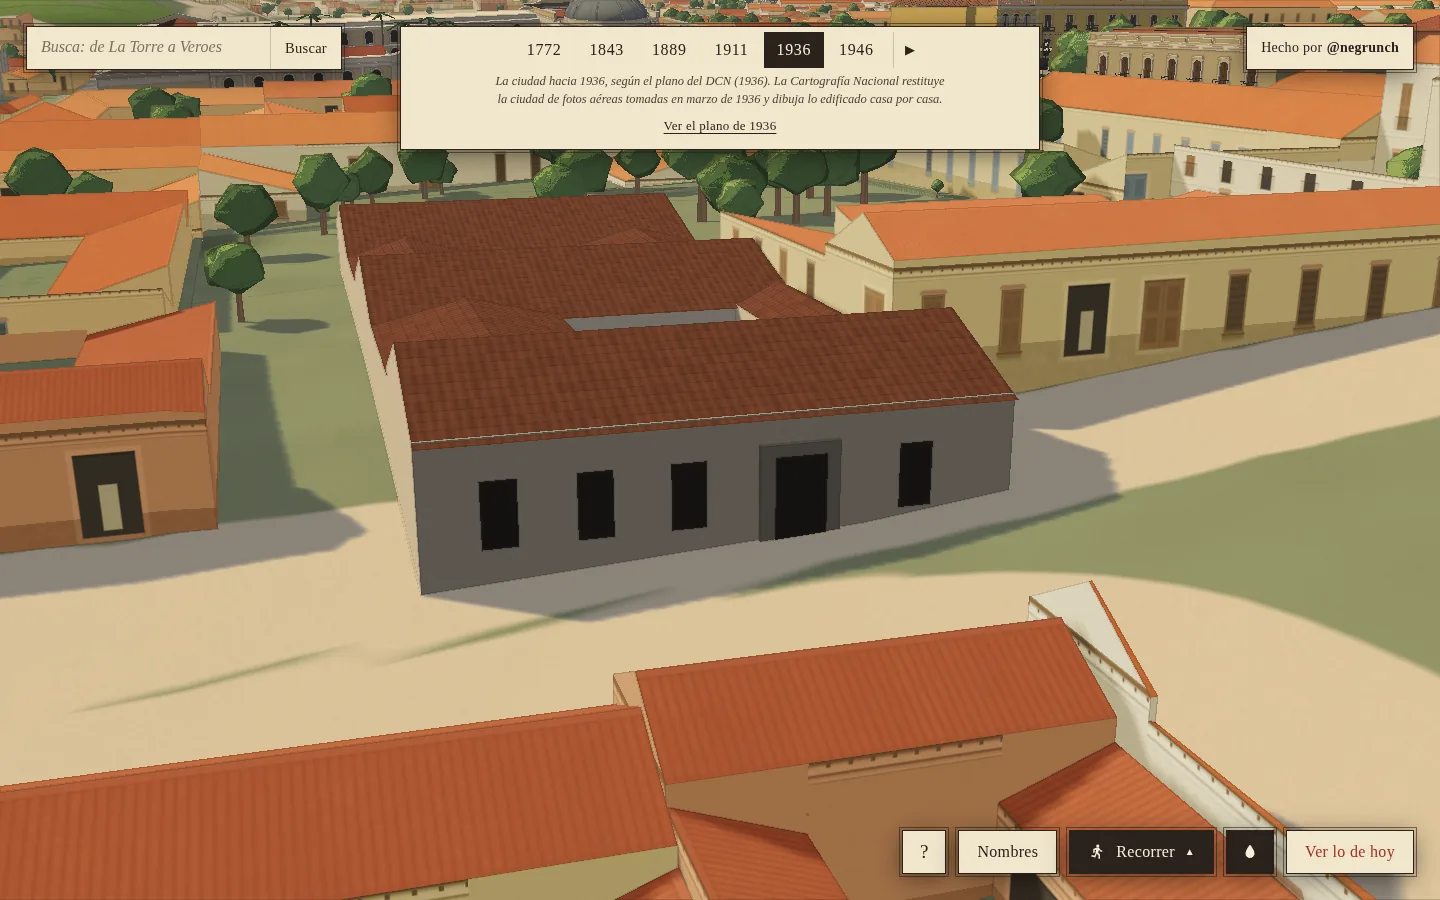
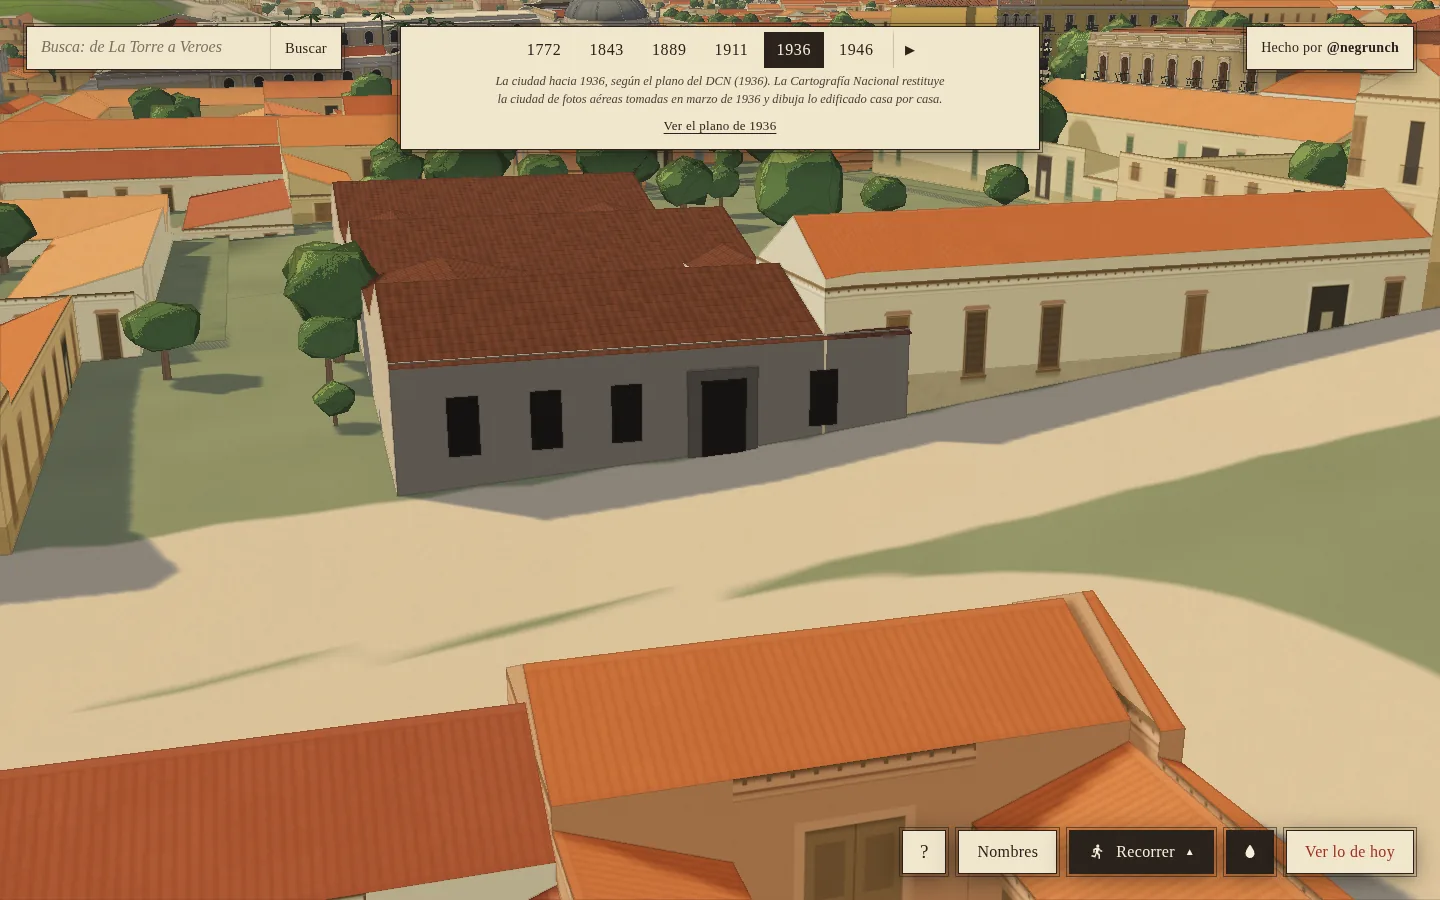
fix: la Casa Natal se alinea con la fachada de su manzana en vez de quedar metida en la calle (#247)
El tejido del sitio sale del mosaico de 1936, donde la costura de las hojas tapa el frente
de la cuadra: el solar entero se corre 9,7 m al oeste, declarado en verificar, en la ficha y
en el documento. Un test unitario y un E2E miden que el frente no sale de la manzana.

Claude-Session: https://claude.ai/code/session_016wLvLzPGE3irYQgPfs9SqY

diff --git a/src/hitos/datos/casa-natal.js b/src/hitos/datos/casa-natal.js
@@ -1,7 +1,8 @@
 /**
  * La Casa Natal del Libertador (issue #247), entre las esquinas de San Jacinto y Traposos. El solar mide lo que
  * publica el Diccionario de Historia de Venezuela (22,40 × 60,50 m) y está puesto donde el plano de 1936 raya
- * la «Casa Natal» (docs/casa-natal-georreferencia.json). La fachada cambia con las épocas según Landaeta
+ * la «Casa Natal» (docs/casa-natal-georreferencia.json), corrido 9,7 m hacia el fondo para alinear la fachada con
+ * la manzana del modelo (CORRIMIENTO_M). La fachada cambia con las épocas según Landaeta
  * Rosales (1912); el volumen, no: es de un piso en todas. Lo que no tiene fuente queda en `verificar`
  * (docs/casa-natal-integracion.md). El origen es el medio de la fachada y el eje entra al solar, hacia el oeste;
  * b > 0 es el norte. No tiene constructor propio: se arma con las partes `cuerpo` y `ventanas` de src/hitos/partes.js.
@@ -11,12 +12,30 @@ import { rectanguloPx } from './marco.js'
 // los tonos de src/hitos/piezas.js que usa (este módulo lo carga también el hilo principal, sin three.js)
 const TONO = Object.freeze({ TEJA_VIEJA: 0x7d4a36, PIEDRA: 0x8a8378, PIEDRA_CLARA: 0xbdb6a6 })
 
-const marco = { x: 9262.6, y: 7168.2, eje: [-0.9786, -0.2055] }
+const EJE = Object.freeze([-0.9786, -0.2055])
+/** El medio de la fachada donde la ponen los planos de 1889, 1911 y 1946 (en el de 1936 la tapa la costura de las hojas). */
+export const FACHADA_LEIDA_PX = Object.freeze([9262.6, 7168.2])
+/**
+ * Lo que la casa se corre hacia el fondo para quedar en la línea de fachada de su manzana del modelo. El tejido del
+ * sitio sale del mosaico de 1936, y ahí la costura de las hojas se come el frente de esta cuadra: el borde de la
+ * manzana (con su retiro de 1 m) queda de 9,0 a 9,7 m al oeste de la fachada de los planos. Se corre el solar entero (conserva sus
+ * 22,40 × 60,50 m) lo que hace falta para que ningún punto del frente pise la calle del modelo.
+ */
+export const CORRIMIENTO_M = 9.7
+const METRO_POR_PX = 0.5
+const marco = {
+  x: FACHADA_LEIDA_PX[0] + (CORRIMIENTO_M * EJE[0]) / METRO_POR_PX,
+  y: FACHADA_LEIDA_PX[1] + (CORRIMIENTO_M * EJE[1]) / METRO_POR_PX,
+  eje: [...EJE],
+}
 
 /** El solar, en metros (Fuentes Carvallo, DHV). */
 export const SOLAR = Object.freeze({ frente: 22.4, fondo: 60.5 })
 
-/** Los dos patios que nombra el IPC, centrados en los blancos que el plano de 1936 deja dentro del rayado. */
+/**
+ * Los dos patios que nombra el IPC. Su lugar dentro del solar sale de los blancos que el plano de 1936 deja en el
+ * rayado; con el solar corrido, quedan 9,7 m al oeste de esos blancos.
+ */
 export const PATIOS = Object.freeze([
   Object.freeze({ a: 16.1, b: 2.3, largo: 10, ancho: 9 }), // el principal, detrás del zaguán
   Object.freeze({ a: 39.5, b: -0.5, largo: 9, ancho: 7 }), // el de servicio
@@ -117,8 +136,9 @@ export const casaNatal = Object.freeze({
   verificar: [
     'Alturas sin fuente: ninguna está medida ni publicada. Va un piso de 5 m a la calle y 4,2 a 4,6 m adentro, con tejado bajo.',
     'El piso alto anterior a 1812 no se dibuja: Landaeta dice que la casa «era de alto interiormente» y el DHV, que Juan Vicente Bolívar y Ponte le hizo un piso alto, pero ninguno dice dónde estaba ni desde cuándo. En 1772 va de un piso, como en la lámina de 1912.',
-    'Solar de 22,40 × 60,50 m (DHV), ubicado sobre el rayado del plano de 1936: allí el ancho leído da 21,9 m y el fondo unos 60 m. El plano de 1946 dibuja un contorno 3 m más ancho. La línea de fachada sale del plano de 1946, porque en el mosaico de 1936 la costura de las hojas tapa la calle.',
-    'Zaguán y dos patios según el IPC, que describe la casa restaurada. Los patios van donde el plano de 1936 deja blancos; su tamaño es interpretativo y no se sabe cómo eran antes de 1916. Los corredores no se dibujan: quedan dentro de las crujías.',
+    'Solar de 22,40 × 60,50 m (DHV), ubicado sobre el rayado del plano de 1936: allí el ancho leído da 21,9 m y el fondo unos 60 m. El plano de 1946 dibuja un contorno 3 m más ancho.',
+    'La casa está corrida 9,7 m al oeste de donde la ponen los planos. Los de 1889, 1911 y 1946 dibujan la fachada en x ≈ 9263; en el mosaico de 1936, del que sale el tejido del sitio, la costura de las dos hojas tapa una franja de unos 23 m con la calle y el frente de esta cuadra, y la manzana del modelo termina 9,0 a 9,7 m antes. Para no dejar la casa metida en la calle se corre el solar entero hasta la línea de fachada de sus vecinas; el fondo queda 9,7 m más adentro de la manzana que el rayado del plano. Se deshace cuando el generador de manzanas corrija ese borde.',
+    'Zaguán y dos patios según el IPC, que describe la casa restaurada. Los patios van donde el plano de 1936 deja blancos, corridos con el solar; su tamaño es interpretativo y no se sabe cómo eran antes de 1916. Los corredores no se dibujan: quedan dentro de las crujías.',
     'Fachada de 1772: la de la lámina de Landaeta (1912), que por su texto parece salir del cuadro que Néstor Hernández pintó en 1883 para mostrarla «con la forma que tenía entonces»: es una reconstrucción hecha cien años después.',
     'Fachada de 1843 y 1889: las mismas ventanas sin las rejas de madera. Las de hierro «que se le pusieron después del terremoto» (Landaeta) no se dibujan, y la lámina del Papel Periódico Ilustrado de 1883 que él cita no se consultó.',
     'Fachada de 1911: Landaeta no fecha el cambio de las tres ventanas del sur por puertas; ocurrió entre 1883 y 1912. En 1889 se dibuja todavía con ventanas, sin prueba.',

diff --git a/tests/unit/casa-natal.test.js b/tests/unit/casa-natal.test.js
@@ -4,7 +4,7 @@ import { TONO } from '../../src/hitos/piezas.js'
 import { HITOS, validarHitos, construirHitos } from '../../src/hitos.js'
 import { hitosConPlanta } from '../../src/hitos/plantas.js'
 import { zonasDeSupresion, puntoEnPoligono } from '../../src/hitos/suprimir.js'
-import { casaNatal as hito, SOLAR, PATIOS, FASES, vanosDeFachada } from '../../src/hitos/datos/casa-natal.js'
+import { casaNatal as hito, SOLAR, PATIOS, FASES, vanosDeFachada, CORRIMIENTO_M, FACHADA_LEIDA_PX } from '../../src/hitos/datos/casa-natal.js'
 import { parteDe } from '../../src/hitos/partes.js'
 import { MARCAS } from '../../src/marcas-datos.js'
 import { FICHAS } from '../../src/fichas-datos.js'
@@ -76,7 +76,7 @@ describe('Casa Natal del Libertador (#247): el solar y su vida', () => {
     ['la calle, al este', [9278, 7168]],
     ['el vecino del norte', [9220, 7124]],
     ['el vecino del sur', [9220, 7200]],
-    ['el fondo de la manzana, al oeste', [9125, 7140]],
+    ['el fondo de la manzana, al oeste', [9110, 7137]],
   ])('la reserva es el solar y deja afuera %s', (_, punto) => {
     const zonas = zonasDeSupresion([hito])
     expect(zonas.some((z) => puntoEnPoligono([9200, 7155], z.poligono))).toBe(true)
@@ -90,12 +90,50 @@ describe('Casa Natal del Libertador (#247): el solar y su vida', () => {
     const enPlanta = (p) => hito.planta.some((poligono) => puntoEnPoligono(p, poligono))
     const enSolar = (p) => puntoEnPoligono(p, hito.suprime[0])
     expect(PATIOS).toHaveLength(2)
-    for (const blanco of [[9232, 7157], [9185, 7153]]) {
+    // los blancos del plano de 1936, corridos con el solar (CORRIMIENTO_M hacia el fondo)
+    const corrido = ([x, y]) => [x + (CORRIMIENTO_M * hito.eje[0]) / PLANO.metro, y + (CORRIMIENTO_M * hito.eje[1]) / PLANO.metro]
+    for (const blanco of [[9232, 7157], [9185, 7153]].map(corrido)) {
       expect(enSolar(blanco)).toBe(true)
       expect(enPlanta(blanco)).toBe(false)
     }
     // la crujía de la calle, la que separa los patios y la del fondo sí son colisión
-    for (const techado of [[9257, 7166], [9208, 7155], [9155, 7146]]) expect(enPlanta(techado)).toBe(true)
+    for (const techado of [[9257, 7166], [9208, 7155], [9155, 7146]].map(corrido)) expect(enPlanta(techado)).toBe(true)
+  })
+
+  // El borde este de la manzana del modelo frente a la casa, ya con su retiro de 1 m (el `limite` de V1772-36902-0-0,
+  // igual en las seis épocas: donde termina el suelo de manzana y empiezan las fachadas vecinas), en píxeles:
+  // informes de retiro de los datos completos (fuentes/derivados/retiro<año>, generados con 27abd10).
+  const BORDE_MANZANA_PX = [[9240.4, 7186.4], [9248.3, 7142.3]]
+  /** Metros que un punto pasa del borde de la manzana hacia la calle (positivo: en la calle). */
+  const fueraDeLaManzana = ([x, y]) => {
+    const [[x0, y0], [x1, y1]] = BORDE_MANZANA_PX
+    const largo = Math.hypot(x1 - x0, y1 - y0)
+    // la calle queda al este: a la derecha de quien recorre el borde de sur a norte
+    return (((x - x0) * (y1 - y0) - (y - y0) * (x1 - x0)) / largo) * -PLANO.metro
+  }
+
+  test('el frente no sale de la manzana del modelo hacia la calle, y tampoco queda hundido', () => {
+    // Arrange: las dos esquinas del frente y su medio
+    const frente = [hito.suprime[0][0], hito.suprime[0][3], [hito.x, hito.y]]
+
+    // Act
+    const salidas = frente.map(fueraDeLaManzana)
+
+    // Assert: ninguna pisa la calle (tolerancia: 0,1 m de redondeo) ni se mete más de 1 m en la manzana
+    expect(fueraDeLaManzana([9278, 7168])).toBeGreaterThan(5) // control: la calle sí queda afuera
+    expect(fueraDeLaManzana(FACHADA_LEIDA_PX)).toBeGreaterThan(9) // sin corrimiento, la casa salía de 9,0 a 9,7 m
+    for (const salida of salidas) {
+      expect(salida).toBeLessThanOrEqual(0.1)
+      expect(salida).toBeGreaterThan(-1)
+    }
+  })
+
+  test('el corrimiento está declarado: cuánto, hacia dónde y por qué', () => {
+    const [dx, dy] = [hito.x - FACHADA_LEIDA_PX[0], hito.y - FACHADA_LEIDA_PX[1]]
+    expect(Math.hypot(dx, dy) * PLANO.metro).toBeCloseTo(CORRIMIENTO_M, 2)
+    expect(dx).toBeLessThan(0) // hacia el oeste, al fondo del solar
+    expect(hito.verificar.join(' ')).toMatch(/corrida 9,7 m al oeste.*costura/)
+    expect(FICHAS['casa-natal'].dudas).toMatch(/9,7 m al oeste.*costura/)
   })
 
   test('las plantas llegan a hitosConPlanta desde 1772', () => {

diff --git a/tests/e2e/casa-natal.spec.js b/tests/e2e/casa-natal.spec.js
@@ -1,4 +1,5 @@
 import { test, expect } from '@playwright/test'
+import { casaNatal, FACHADA_LEIDA_PX, SOLAR } from '../../src/hitos/datos/casa-natal.js'
 
 // La Casa Natal del Libertador (#247): está en pie en las seis épocas y su ficha cuenta cada etapa.
 const CENTRO = { x: 118, z: 158 } // el medio del solar, en metros del mundo
@@ -98,4 +99,40 @@ test('la marca sale del hito y la ficha dice qué se dibuja en cada etapa', asyn
   await page.evaluate(() => window.lab.lineaDeTiempo.elegir(5))
   await page.waitForFunction(() => window.lab.ciudad.U.uEpocaA.value === 5)
   await expect(page.locator('#ficha .texto p.epoca.rige')).toContainText('5 de julio de 1921')
+})
+
+test('el frente de la casa no pisa la calle: cae en el borde de su manzana en el campo de manzanas del sitio', async ({ page }) => {
+  // Arrange: el medio y las dos esquinas del frente, 1 m hacia adentro (el campo tiene 2 m por píxel), y la fachada
+  // donde la ponen los planos, que en el tejido del modelo cae en la calle
+  const [ux, uy] = casaNatal.eje.map((c) => c / Math.hypot(...casaNatal.eje))
+  const METRO = 0.5
+  const enPx = (a, b) => [casaNatal.x + (a * ux - b * uy) / METRO, casaNatal.y + (a * uy + b * ux) / METRO]
+  const frente = [-SOLAR.frente / 2 + 1, 0, SOLAR.frente / 2 - 1].map((b) => enPx(1, b))
+  await page.goto('/?sinintro&capture&sinsw')
+
+  // Act: metros hasta el borde de manzana (positivo adentro) en 1772, 1843 y 1889, con interpolación bilineal
+  const distancias = await page.evaluate(async ([puntos, DIST_MAX_M]) => {
+    const campo = await (await fetch('datos/suelo-manzanas.json')).json()
+    const img = new Image()
+    img.src = campo.imagen
+    await img.decode()
+    const lienzo = Object.assign(document.createElement('canvas'), { width: img.width, height: img.height })
+    const ctx = lienzo.getContext('2d', { willReadFrequently: true })
+    ctx.drawImage(img, 0, 0)
+    const [x0, y0, x1, y1] = campo.caja
+    return puntos.map(([x, y]) => {
+      const [u, v] = [((x - x0) / (x1 - x0)) * img.width - 0.5, ((y - y0) / (y1 - y0)) * img.height - 0.5]
+      const [i, j, fu, fv] = [Math.floor(u), Math.floor(v), u - Math.floor(u), v - Math.floor(v)]
+      const d = ctx.getImageData(i, j, 2, 2).data
+      return [0, 1, 2].map((canal) => {
+        const t = (k) => d[k * 4 + canal]
+        const valor = (t(0) * (1 - fu) + t(1) * fu) * (1 - fv) + (t(2) * (1 - fu) + t(3) * fu) * fv
+        return (valor / 255 - 0.5) * 2 * DIST_MAX_M
+      })
+    })
+  }, [[...frente, FACHADA_LEIDA_PX], 16])
+
+  // Assert: el frente queda dentro de la manzana o a menos de 1 m de su borde; sin el corrimiento, 6 m o más en la calle
+  for (const porEpoca of distancias.slice(0, 3)) for (const d of porEpoca) expect(d).toBeGreaterThan(-1)
+  for (const d of distancias[3]) expect(d).toBeLessThan(-6)
 })

diff --git a/src/fichas-datos.js b/src/fichas-datos.js
@@ -208,7 +208,7 @@ export const FICHAS = Object.freeze({
       [5, 'La casa reconstruida entre 1916 y 1921 por Vicente Lecuna, con los arquitectos Alejandro Chataing y Antonio Malaussena, e inaugurada como monumento el 5 de julio de 1921. El catálogo del IPC la describe de un solo nivel, con zaguán y dos patios, y con la fachada revestida de mármol en esa obra. El plano de 1936 la rotula «Casa Natal». Una revista de 1930 muestra su patio cuadrado, con corredores de pilares de madera y una pila de piedra al centro.'],
     ],
     hoy: 'la Casa Natal del Libertador, museo, entre las esquinas de San Jacinto y Traposos.',
-    dudas: 'Ninguna altura está medida: va un piso con tejado bajo en todas las épocas. Los patios se dibujan donde el plano de 1936 deja blancos y con tamaño interpretativo; no se sabe cómo eran antes de la obra de 1916–1921, y los corredores no se dibujan. La fachada de 1772 sale de una lámina de 1912 que parece copiar un cuadro de 1883: es una reconstrucción. En 1889 se dibuja todavía con ventanas, sin prueba: el cambio a puertas ocurrió entre 1883 y 1912. El número de ventanas de la fachada restaurada se toma de fotos de 1967 y 2013. El escudo de la portada y las rejas de la fachada restaurada no se dibujan. La casa sale unos 8 m de la línea de sus vecinas: el borde de la manzana del mapa quedó corto bajo la costura de las hojas del plano de 1936, y la fachada va donde la ponen los planos de 1889, 1911 y 1946. El rótulo de 1772 describe la propiedad familiar; el Diccionario de Historia de Venezuela da la casa por del siglo XVII y Landaeta recoge la tradición de que la hizo Juan Vicente Bolívar: no se da una fecha de construcción.',
+    dudas: 'Ninguna altura está medida: va un piso con tejado bajo en todas las épocas. Los patios se dibujan donde el plano de 1936 deja blancos (corridos con el solar) y con tamaño interpretativo; no se sabe cómo eran antes de la obra de 1916–1921, y los corredores no se dibujan. La fachada de 1772 sale de una lámina de 1912 que parece copiar un cuadro de 1883: es una reconstrucción. En 1889 se dibuja todavía con ventanas, sin prueba: el cambio a puertas ocurrió entre 1883 y 1912. El número de ventanas de la fachada restaurada se toma de fotos de 1967 y 2013. El escudo de la portada y las rejas de la fachada restaurada no se dibujan. La casa está dibujada 9,7 m al oeste de donde la ponen los planos de 1889, 1911 y 1946: el tejido del mapa sale del mosaico de 1936, donde la costura de las dos hojas tapa el frente de esta cuadra, y se corrió el solar para alinear la fachada con la de sus vecinas en vez de dejarla metida en la calle.',
   },
   'teatro-municipal': {
     textos: [

diff --git a/docs/casa-natal-integracion.md b/docs/casa-natal-integracion.md
@@ -84,24 +84,41 @@ debe traer el estado anterior a la obra.
   la casa está entre medianeras y, con él, se escondía toda casa vecina que tocara el solar y la Casa Natal quedaba
   sola en un claro. Así solo se esconde la casa que pisa el solar de verdad (25 % de la más chica de las dos huellas).
 - **Colisión** (`planta`): siete crujías; los dos patios quedan transitables.
-- No pisa la calle ni la plaza de San Jacinto (El Venezolano), que está del otro lado de la calle.
+- No pisa la calle (ver abajo) ni la plaza de San Jacinto (El Venezolano), que está del otro lado de la calle.
 
 Medido con `tools/hitos-manzanas.mjs` (`medirHitos`) sobre los informes de retiro de los datos completos
 (`27abd10`), en las seis épocas, con el mismo resultado en todas:
 
 | Manzana | Área | Recinto | Recinto dentro de la manzana | Manzana bajo el recinto | Clase | Decisión |
 |---|---:|---:|---:|---:|---|---|
-| `V1772-36901-0-0` | 11.572 m² | 1.355 m² | 84,6 % | 9,9 % | **chico** | se conserva |
+| `V1772-36902-0-0` | 11.572 m² | 1.355 m² | 100 % | 11,7 % | **chico** | se conserva |
 
-No retira ninguna manzana y no toca ninguna otra. El 15 % que queda fuera es el frente: **la casa sale 8,6 m de la
-manzana del modelo hacia la calle**. No es la casa la que está corrida, es el borde de la manzana: en el mosaico
-de 1936 la costura entre las dos hojas tapa una franja de unos 23 m (de x ≈ 9243 a 9290), con la calle y el frente
-de esta cuadra adentro, y la manzana del modelo termina donde empieza la costura (x ≈ 9245 a la altura de la casa).
+No retira ninguna manzana y no toca ninguna otra.
+
+### La casa está corrida 9,7 m al oeste, a propósito
+
 Los planos de 1889, 1911 y 1946 coinciden en poner la línea de fachada entre x ≈ 9263 y 9270, y el fondo del solar
-del DHV (60,5 m) cae justo donde termina el rayado de 1936 solo si la fachada está ahí. Por eso la calle del modelo
-mide en este tramo unos 25 m en vez de los 12 o 13 de los planos, y las casas vecinas quedan 8,6 m atrás de la
-Casa Natal. Corregirlo es asunto del generador de manzanas (el borde bajo la costura), no de este hito; queda
-anotado como pendiente.
+del DHV (60,5 m) cae donde termina el rayado de 1936 solo si la fachada está ahí. Pero el tejido del sitio sale
+del mosaico de 1936, y ahí la costura entre las dos hojas tapa una franja de unos 23 m (de x ≈ 9243 a 9290), con
+la calle y el frente de esta cuadra adentro: la manzana del modelo termina donde empieza la costura. Con su retiro
+de 1 m, el borde de la manzana queda de 9,0 a 9,7 m al oeste de la fachada de los planos (medido contra el `limite`
+de la manzana en los informes de retiro, igual en las seis épocas).
+
+La primera versión de este PR dejaba la casa donde dicen los planos, y quedaba metida en la calle del modelo. Eso
+no se publica así: el mapa base es el tejido del modelo. **Se corre el solar entero 9,7 m hacia el fondo**
+(`CORRIMIENTO_M` en `src/hitos/datos/casa-natal.js`; el origen pasa de (9262,6, 7168,2) a (9243,6, 7164,2)), lo
+justo para que ningún punto del frente pise la calle; queda entre 0 y 0,7 m adentro del borde. Se movió el origen
+en vez de recortar el fondo para conservar los 22,40 × 60,50 m del DHV.
+
+Lo que cuesta, y queda declarado en `verificar`, en las dudas de la ficha y aquí:
+
+- la casa está 9,7 m al oeste de su lugar documentado; el fondo entra 9,7 m más en la manzana que el rayado;
+- los patios quedan 9,7 m al oeste de los blancos del plano de 1936;
+- la calle del modelo sigue midiendo en este tramo unos 25 m en vez de los 12 o 13 de los planos.
+
+Se deshace (`CORRIMIENTO_M = 0`) cuando el generador de manzanas corrija el borde bajo la costura. Lo miden un test
+unitario (el frente contra el borde de la manzana, con el control de que sin corrimiento salía 9 m) y un E2E (el
+frente contra el campo de manzanas que sirve el sitio).
 
 ## El modelo
 
@@ -127,6 +144,7 @@ lugar exacto de cada vano, y que el volumen no cambie entre épocas.
 - Una vista fechada de la fachada entre 1883 y 1916, y de la fachada recién restaurada.
 - La casa por dentro antes de 1916 (Lecuna y Planchart, 1924).
 - Regenerar y publicar los datos: la reserva cambia el reparto de casas de la manzana.
-- El borde este de la manzana `V1772-36901-0-0`, cortado por la costura del mosaico de 1936: la calle sale el
-  doble de ancha y las casas vecinas, 8,6 m atrás de la Casa Natal.
+- El borde este de la manzana `V1772-36902-0-0`, cortado por la costura del mosaico de 1936: la calle sale el
+  doble de ancha. Mientras tanto la casa va corrida 9,7 m al oeste para no pisarla; al corregir el borde hay que
+  devolverla a su lugar (`CORRIMIENTO_M = 0`).
 - El entorno posterior a 1946 (Museo Bolivariano, Sociedad Bolivariana) queda fuera de las épocas del mapa.
